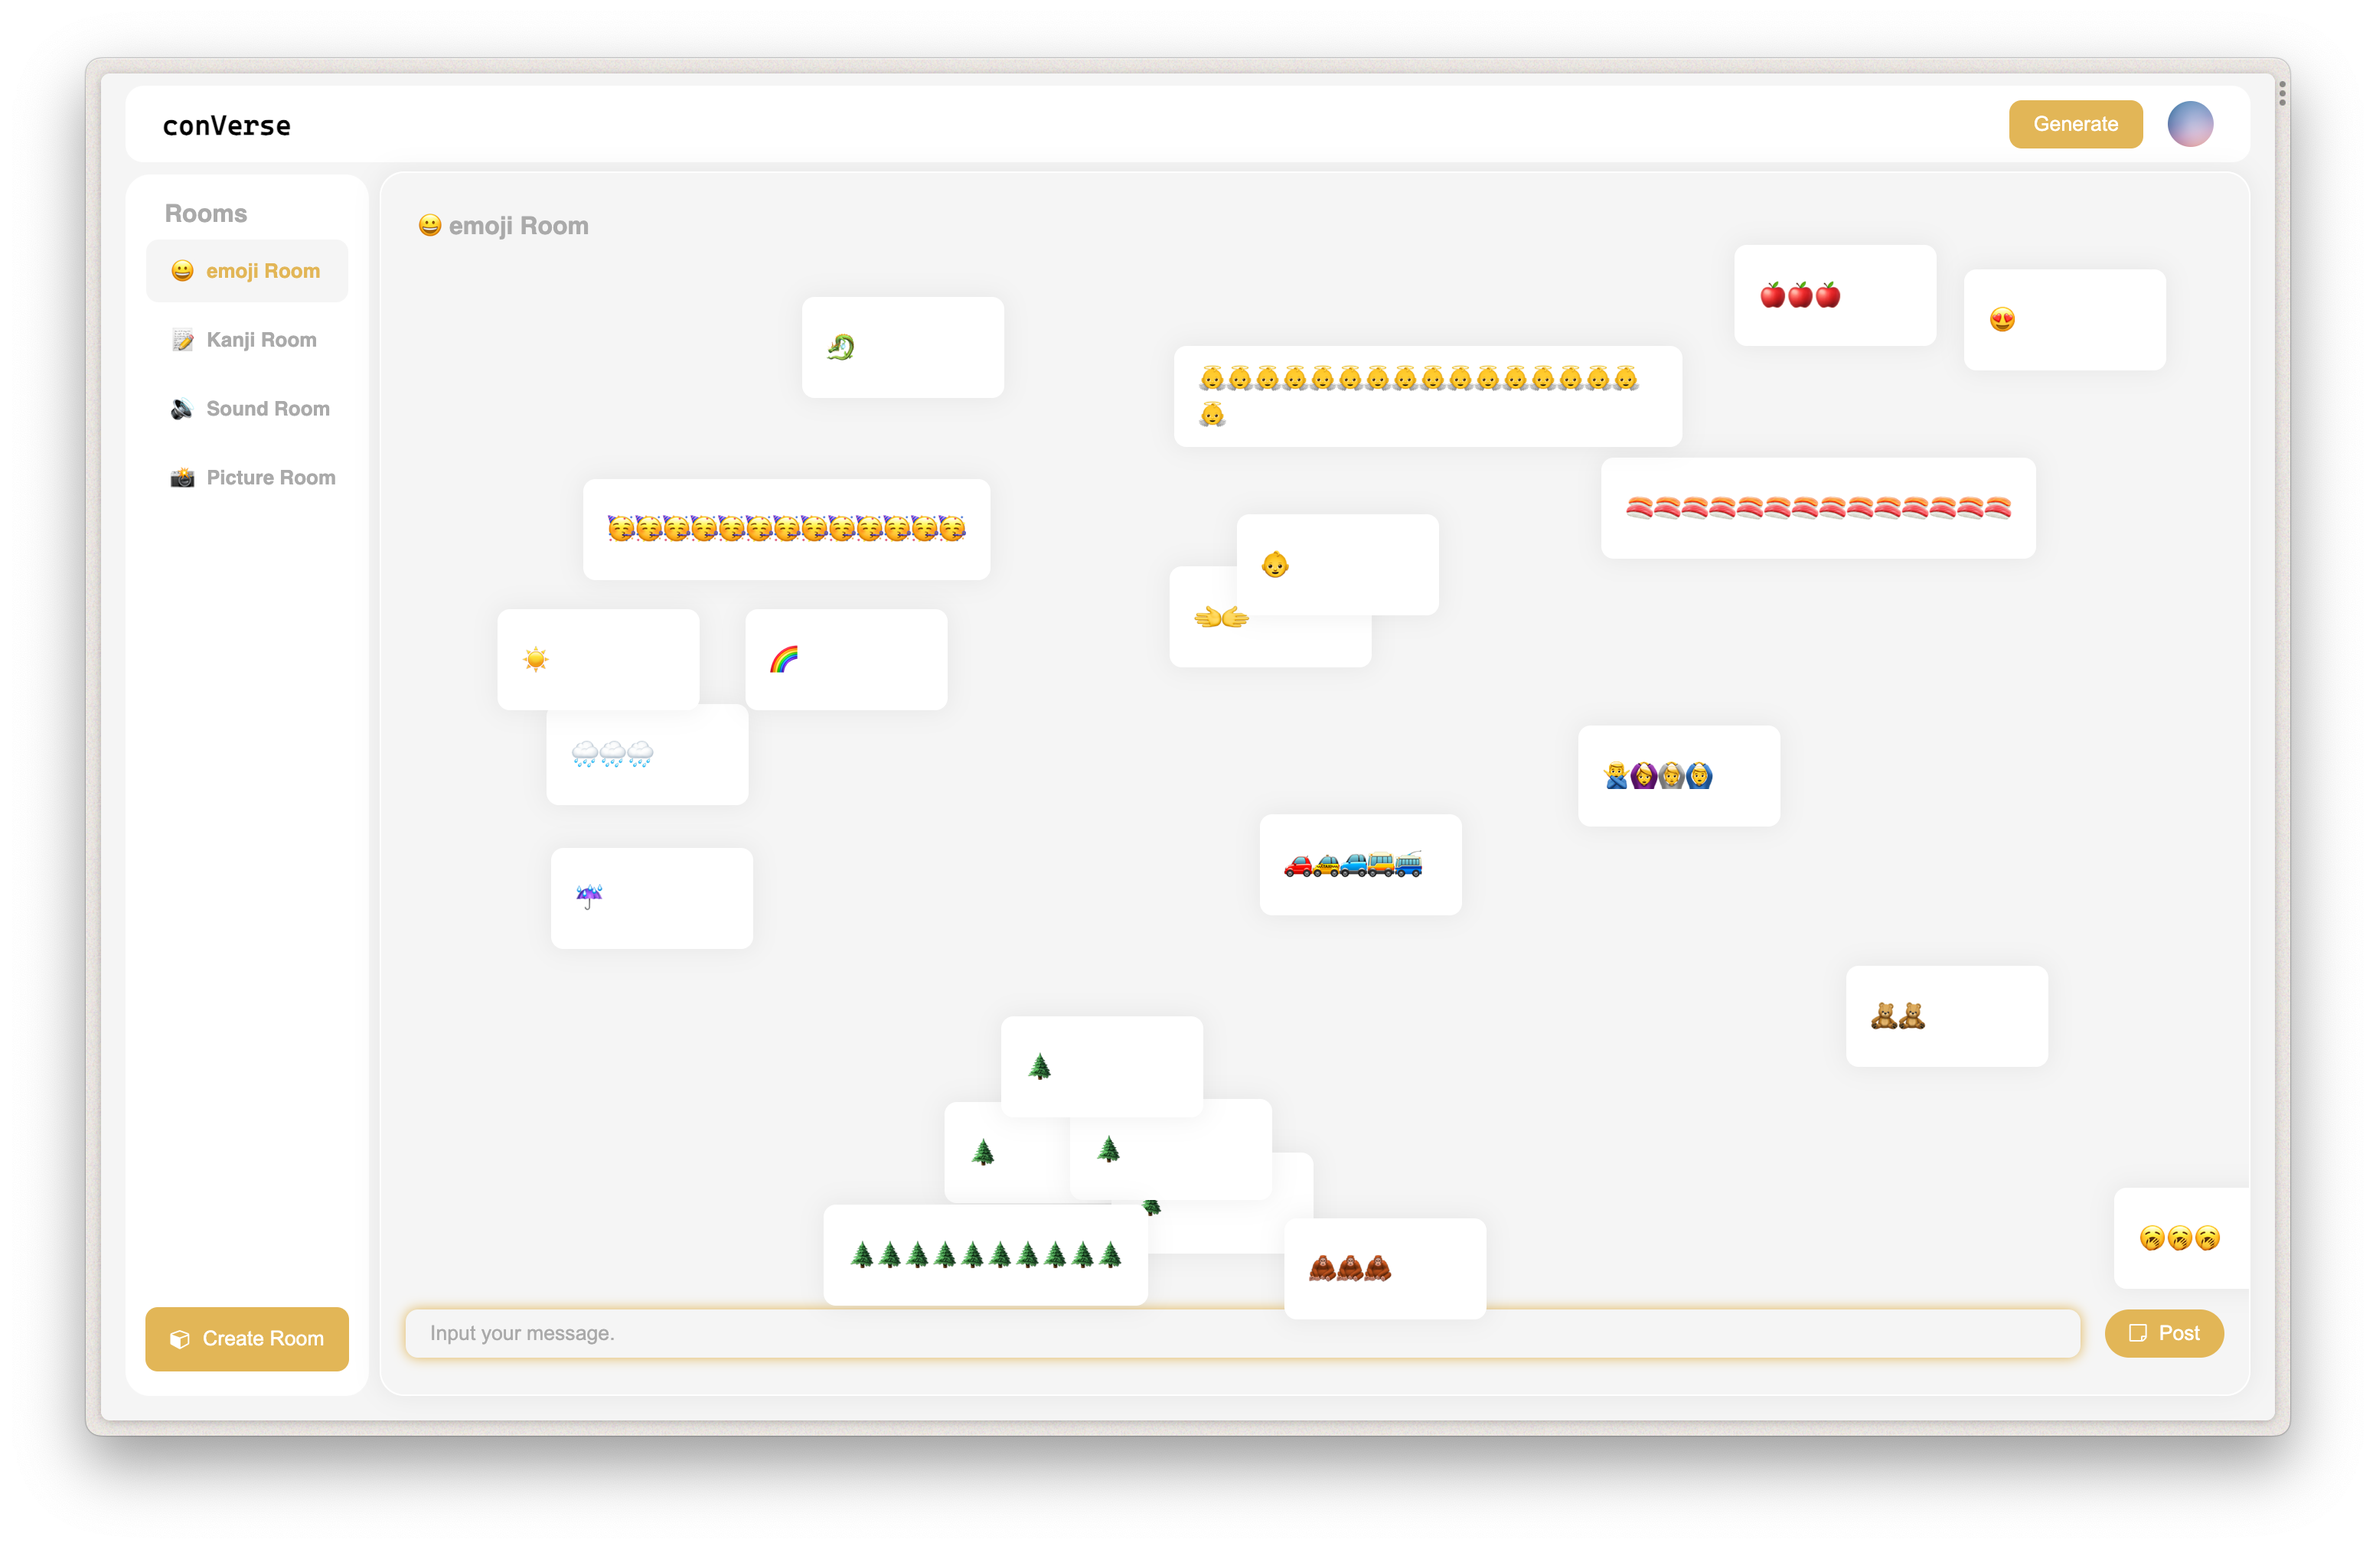
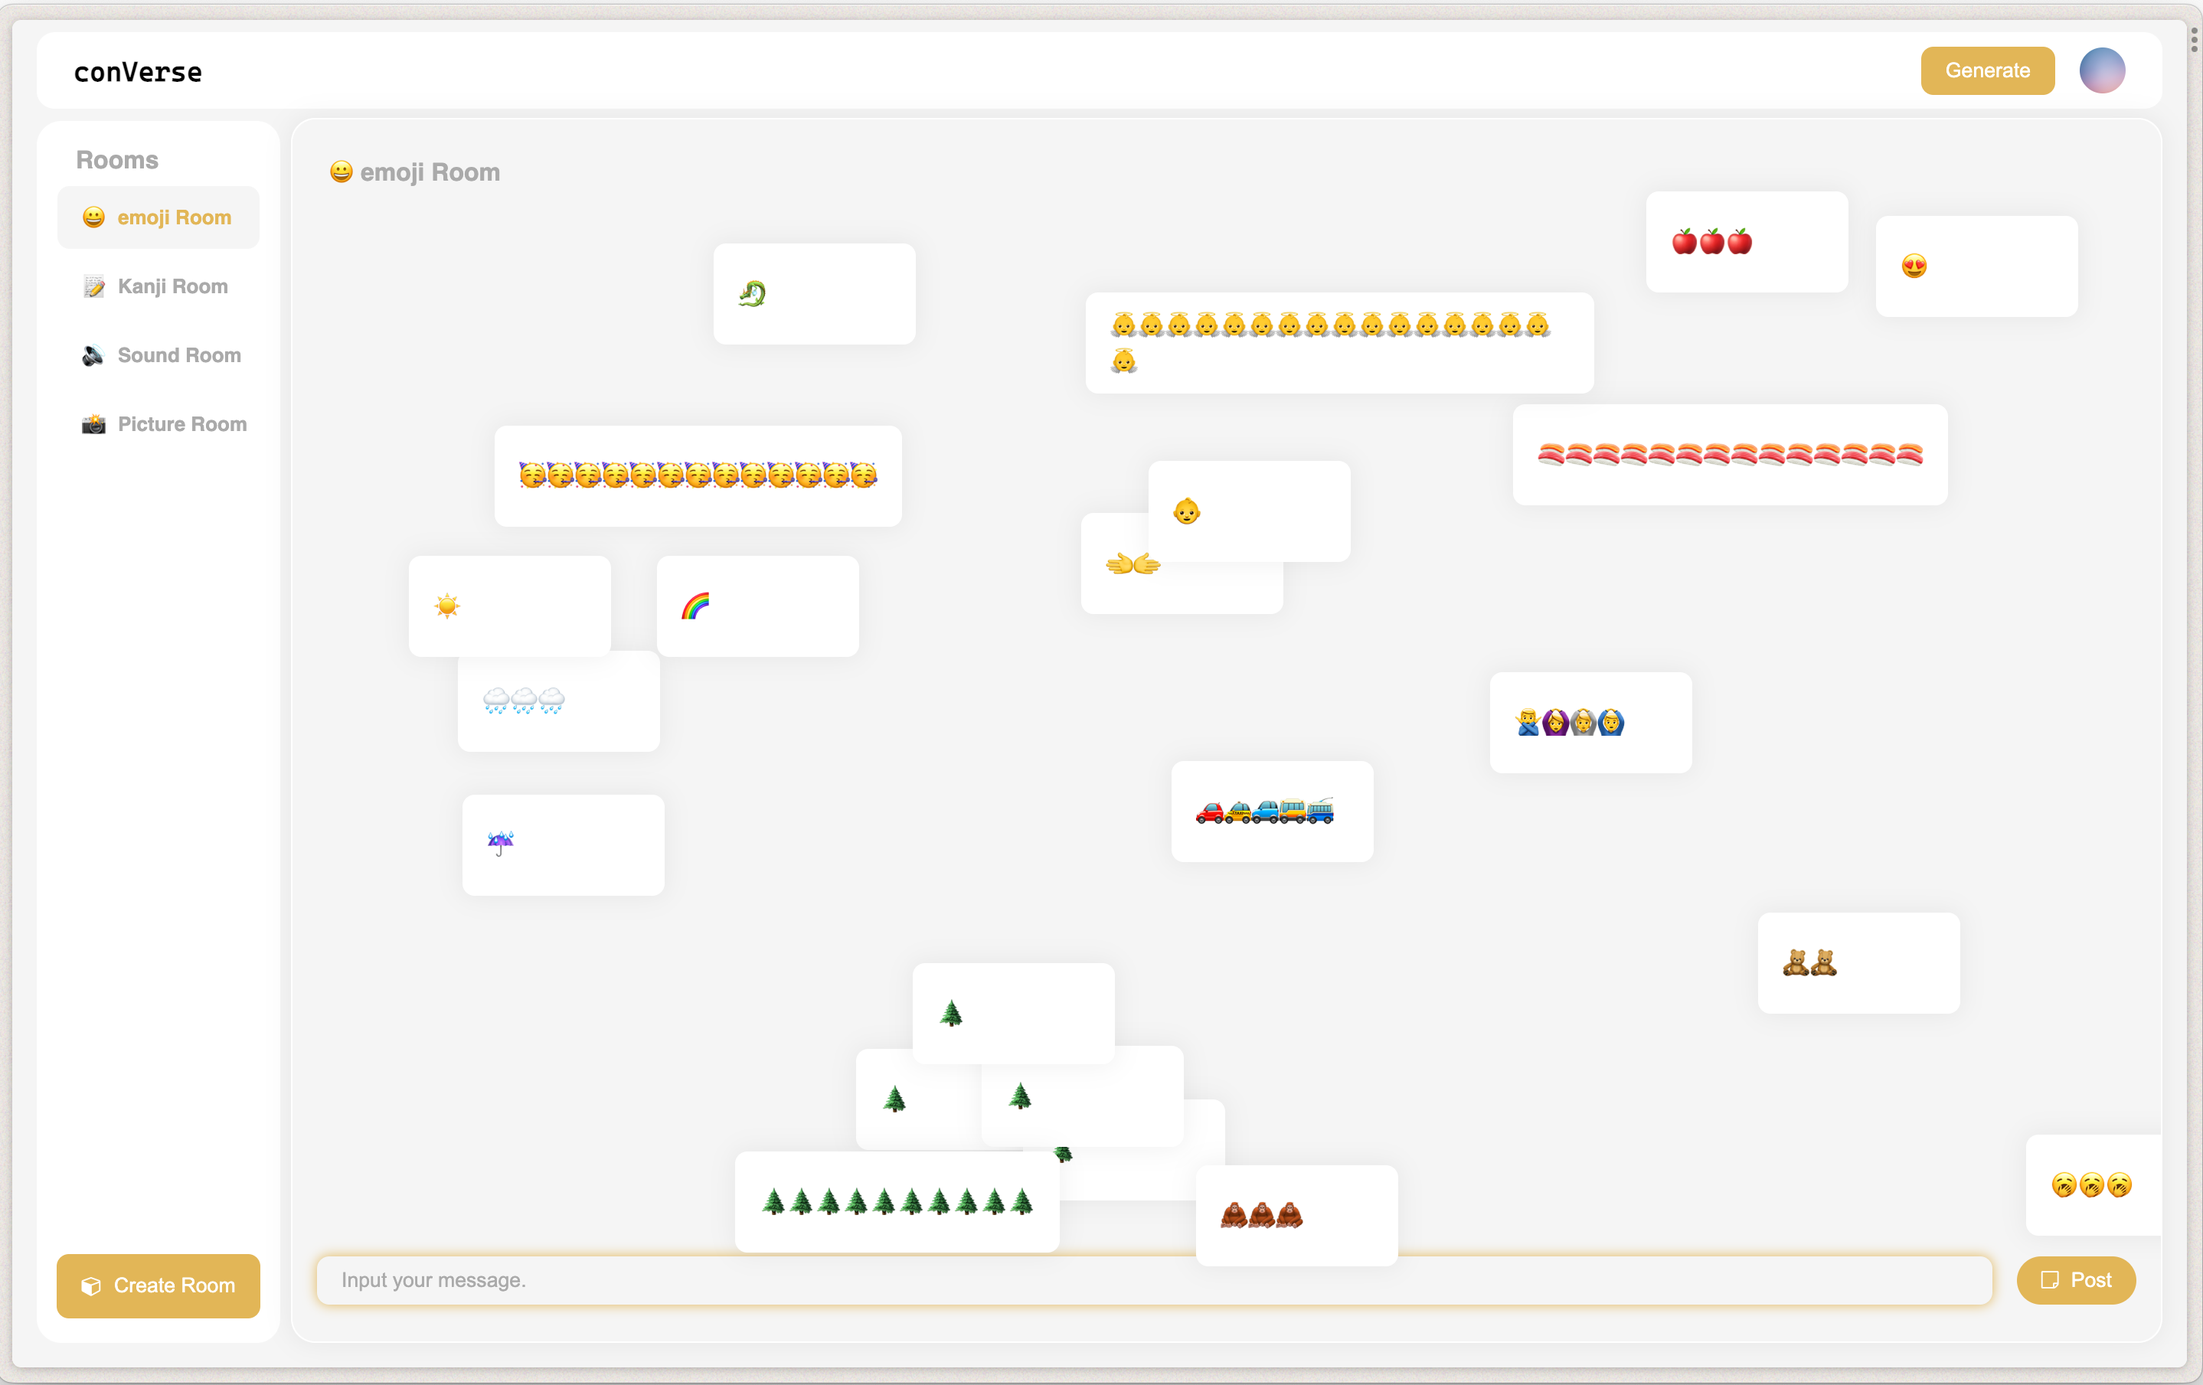
conVerseの表記と画像編集

diff --git a/components/list.js b/components/list.js
@@ -53,7 +53,7 @@ const WorkList = [
   },
   {
     junle: "Web_Content",
-    name: "converse",
+    name: "conVerse",
     path: "converse",
     team: ["Design", "Development"],
     desc: "The project that preceded Gundi",
